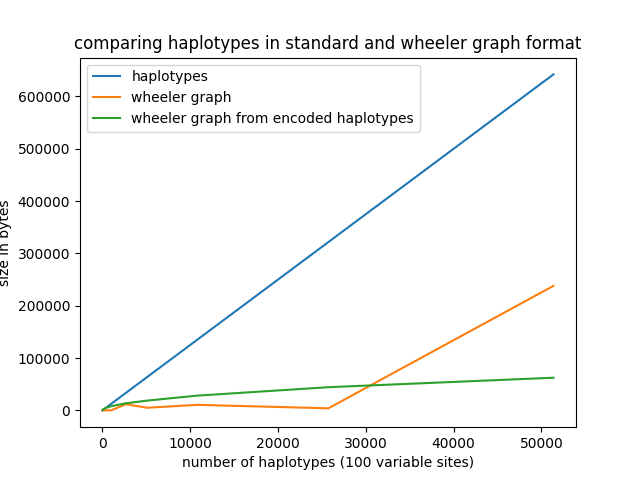
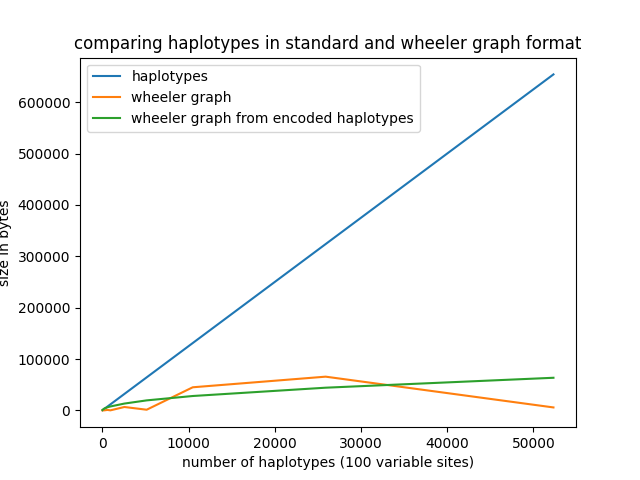
changed encoding delimiter

diff --git a/src/utils.rs b/src/utils.rs
@@ -48,8 +48,7 @@ pub fn encode_haplotypes(haplotypes: Vec<Vec<u8>>) -> String {
                 str.push(allele.to_string().chars().last().unwrap());
                 return str;
             }).collect::<String>();
-            //encoded_haplotype += "#"; !! temporarily commented
-            // compute_bwt function doesnt work with this character, infinite recursion probably...
+            encoded_haplotype += "X";// !! compute_bwt function doesnt work with # character, infinite recursion probably...
             return encoded_haplotype;
         }).collect();
     result.remove(result.len() - 1);

diff --git a/README.md b/README.md
@@ -9,4 +9,7 @@ It encodes haplotypes from an input file and outputs it as a separate file.
 `create_wg input.txt output.wg`\
 It creates a wheeler graph from a file with help of [pfp_wg](https://github.com/miso01/pfp_wg) repository. Before running, you need to set `PFP_WG_PATH` variable in the `Makefile`.
 
+`visualize_haplotypes_sizes`\
+Outputs a graph in .png which shows the sizes of haplotypes represented as wheeler graph.
+
 
